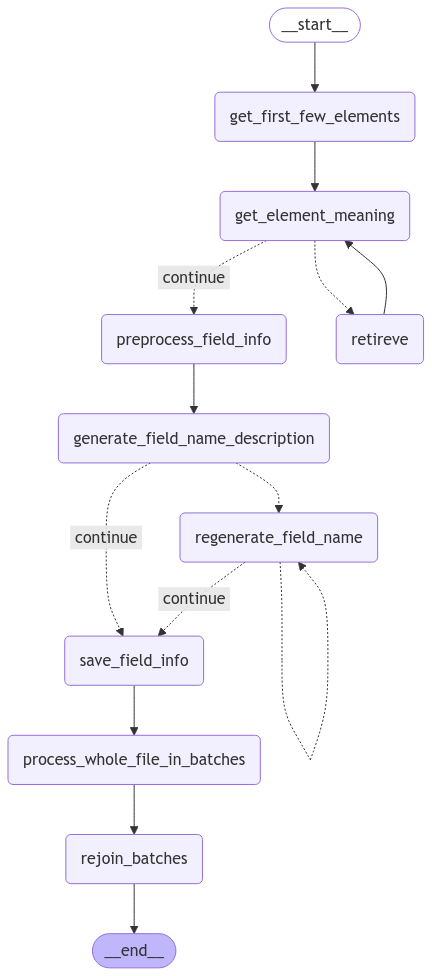
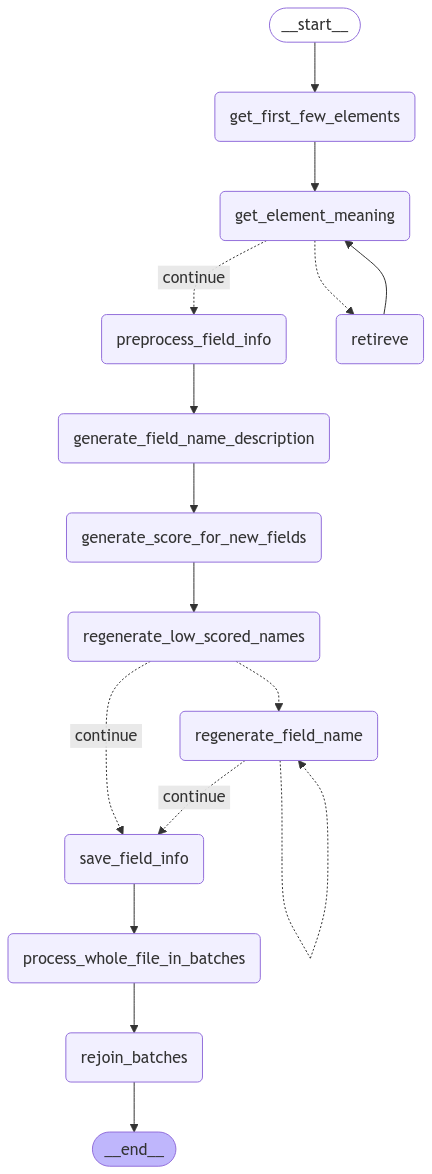
feedback loop fixed with deep cleaning

diff --git a/runner.py b/runner.py
@@ -117,38 +117,18 @@ def run_graph(USER_ID, USER_SESSION_ID, FILE_NAME, DATA_INFO_FROM_USER, should_u
     for future in as_completed(futures):
         continue
 
-    def rename_fields(data, field_maps):
-        new_data = []
-        for element in data:
-            new_element = {}
-            for key in element:
-                if key in field_maps:
-                    new_element[field_maps[key]] = element[key]
-                else:
-                    new_element[key] = element[key]
-            new_data.append(new_element)
-        return new_data
-    
-    new_out_data = []
-    for element in out_data:
-        new_element = {}
+    for element_index, element in enumerate(out_data):
         for key in element:
-            if key in nested_fields:
-                with open(f"""{temp_dir_path}/{key}/data_info.json""", "r") as f:
-                    nested_data_info = json.load(f)
-                nested_field_maps = {}
-                for field_info in nested_data_info:
-                    if field_info == "meaning_of_elements_in_data":
-                        continue
-                    nested_field_maps[field_info] = nested_data_info[field_info]["field_new_name"]
-                new_element[key] = rename_fields(element[key], nested_field_maps)
-            else:
-                new_element[key] = element[key]
-        new_out_data.append(new_element)
-    
-    out_data = new_out_data
-    new_out_data = None
-                
+            if isinstance(element[key], list) and isinstance(element[key][0], dict):
+                if key in nested_fields:
+                    nested_processed_element = []
+                    with open(f"""{nested_fields[key]}/out.json""", "r") as f:
+                        nested_out_data = json.load(f)
+                    for nested_element in nested_out_data:
+                        if "parent_index_do_not_change" in nested_element:
+                            if nested_element["parent_index_do_not_change"] == element_index:
+                                nested_processed_element.append(nested_element)
+                    out_data[element_index][key] = nested_processed_element
         
     with open(f"""{temp_dir_path}/out.json""", "w") as f:
         json.dump(out_data, f, indent=4)

diff --git a/src/prompts/exctract_correct_field_names_template.py b/src/prompts/exctract_correct_field_names_template.py
@@ -156,7 +156,9 @@ Provide only the JSON object as your response.""",
 )
 
 regenerate_low_scored_names = PromptTemplate(
-    template="""The initial attempt to improve the field name '{field_name}' resulted in '{field_new_name}', which has a clarity improvement score of {semantic_score} because {assessment}.
+    template="""The initial attempt to improve the field name '{field_name}' resulted in '{field_new_name}', which has a clarity improvement score of - {semantic_score}.
+Here's the feedback provided by the user:
+{assessment}
 
 Your task is to suggest an even better field name that significantly enhances semantic clarity. Use the following information:
 

diff --git a/src/graph.py b/src/graph.py
@@ -48,4 +48,9 @@ def get_feild_name_correcting_task_graph():
 
     compiled_workflow = workflow.compile()
 
+    #save the compiled workflow image 
+    img = compiled_workflow.get_graph().draw_mermaid_png()
+    with open('workflow.png', 'wb') as f:
+        f.write(img)
+
     return compiled_workflow
